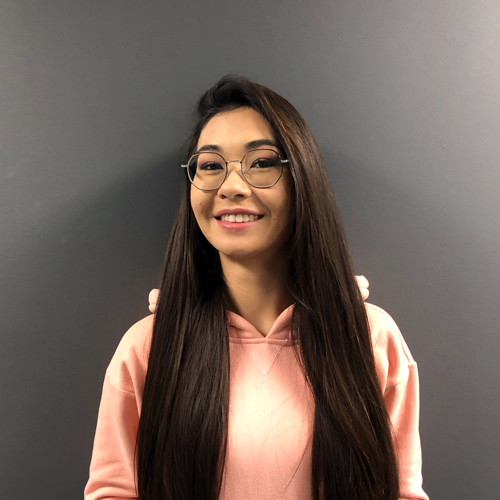
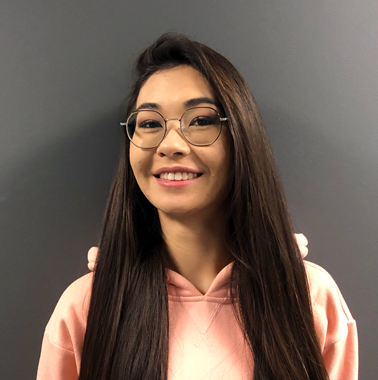
new photos and Charlie added

diff --git a/_layouts/about.html b/_layouts/about.html
@@ -39,7 +39,7 @@ layout: default
     <div class="container pb-6">
         <h4 class="title titled is-size-2 is-size-4-mobile has-text-centered mb-6">Meet our team</h4>
         <br />
-        <div class="columns is-vcentered is-multiline">
+        <div class="columns is-multiline">
             {% for team in site.data.content.about.team %}
             <div class="column mx-1">
                 <figure class="snip1192">
